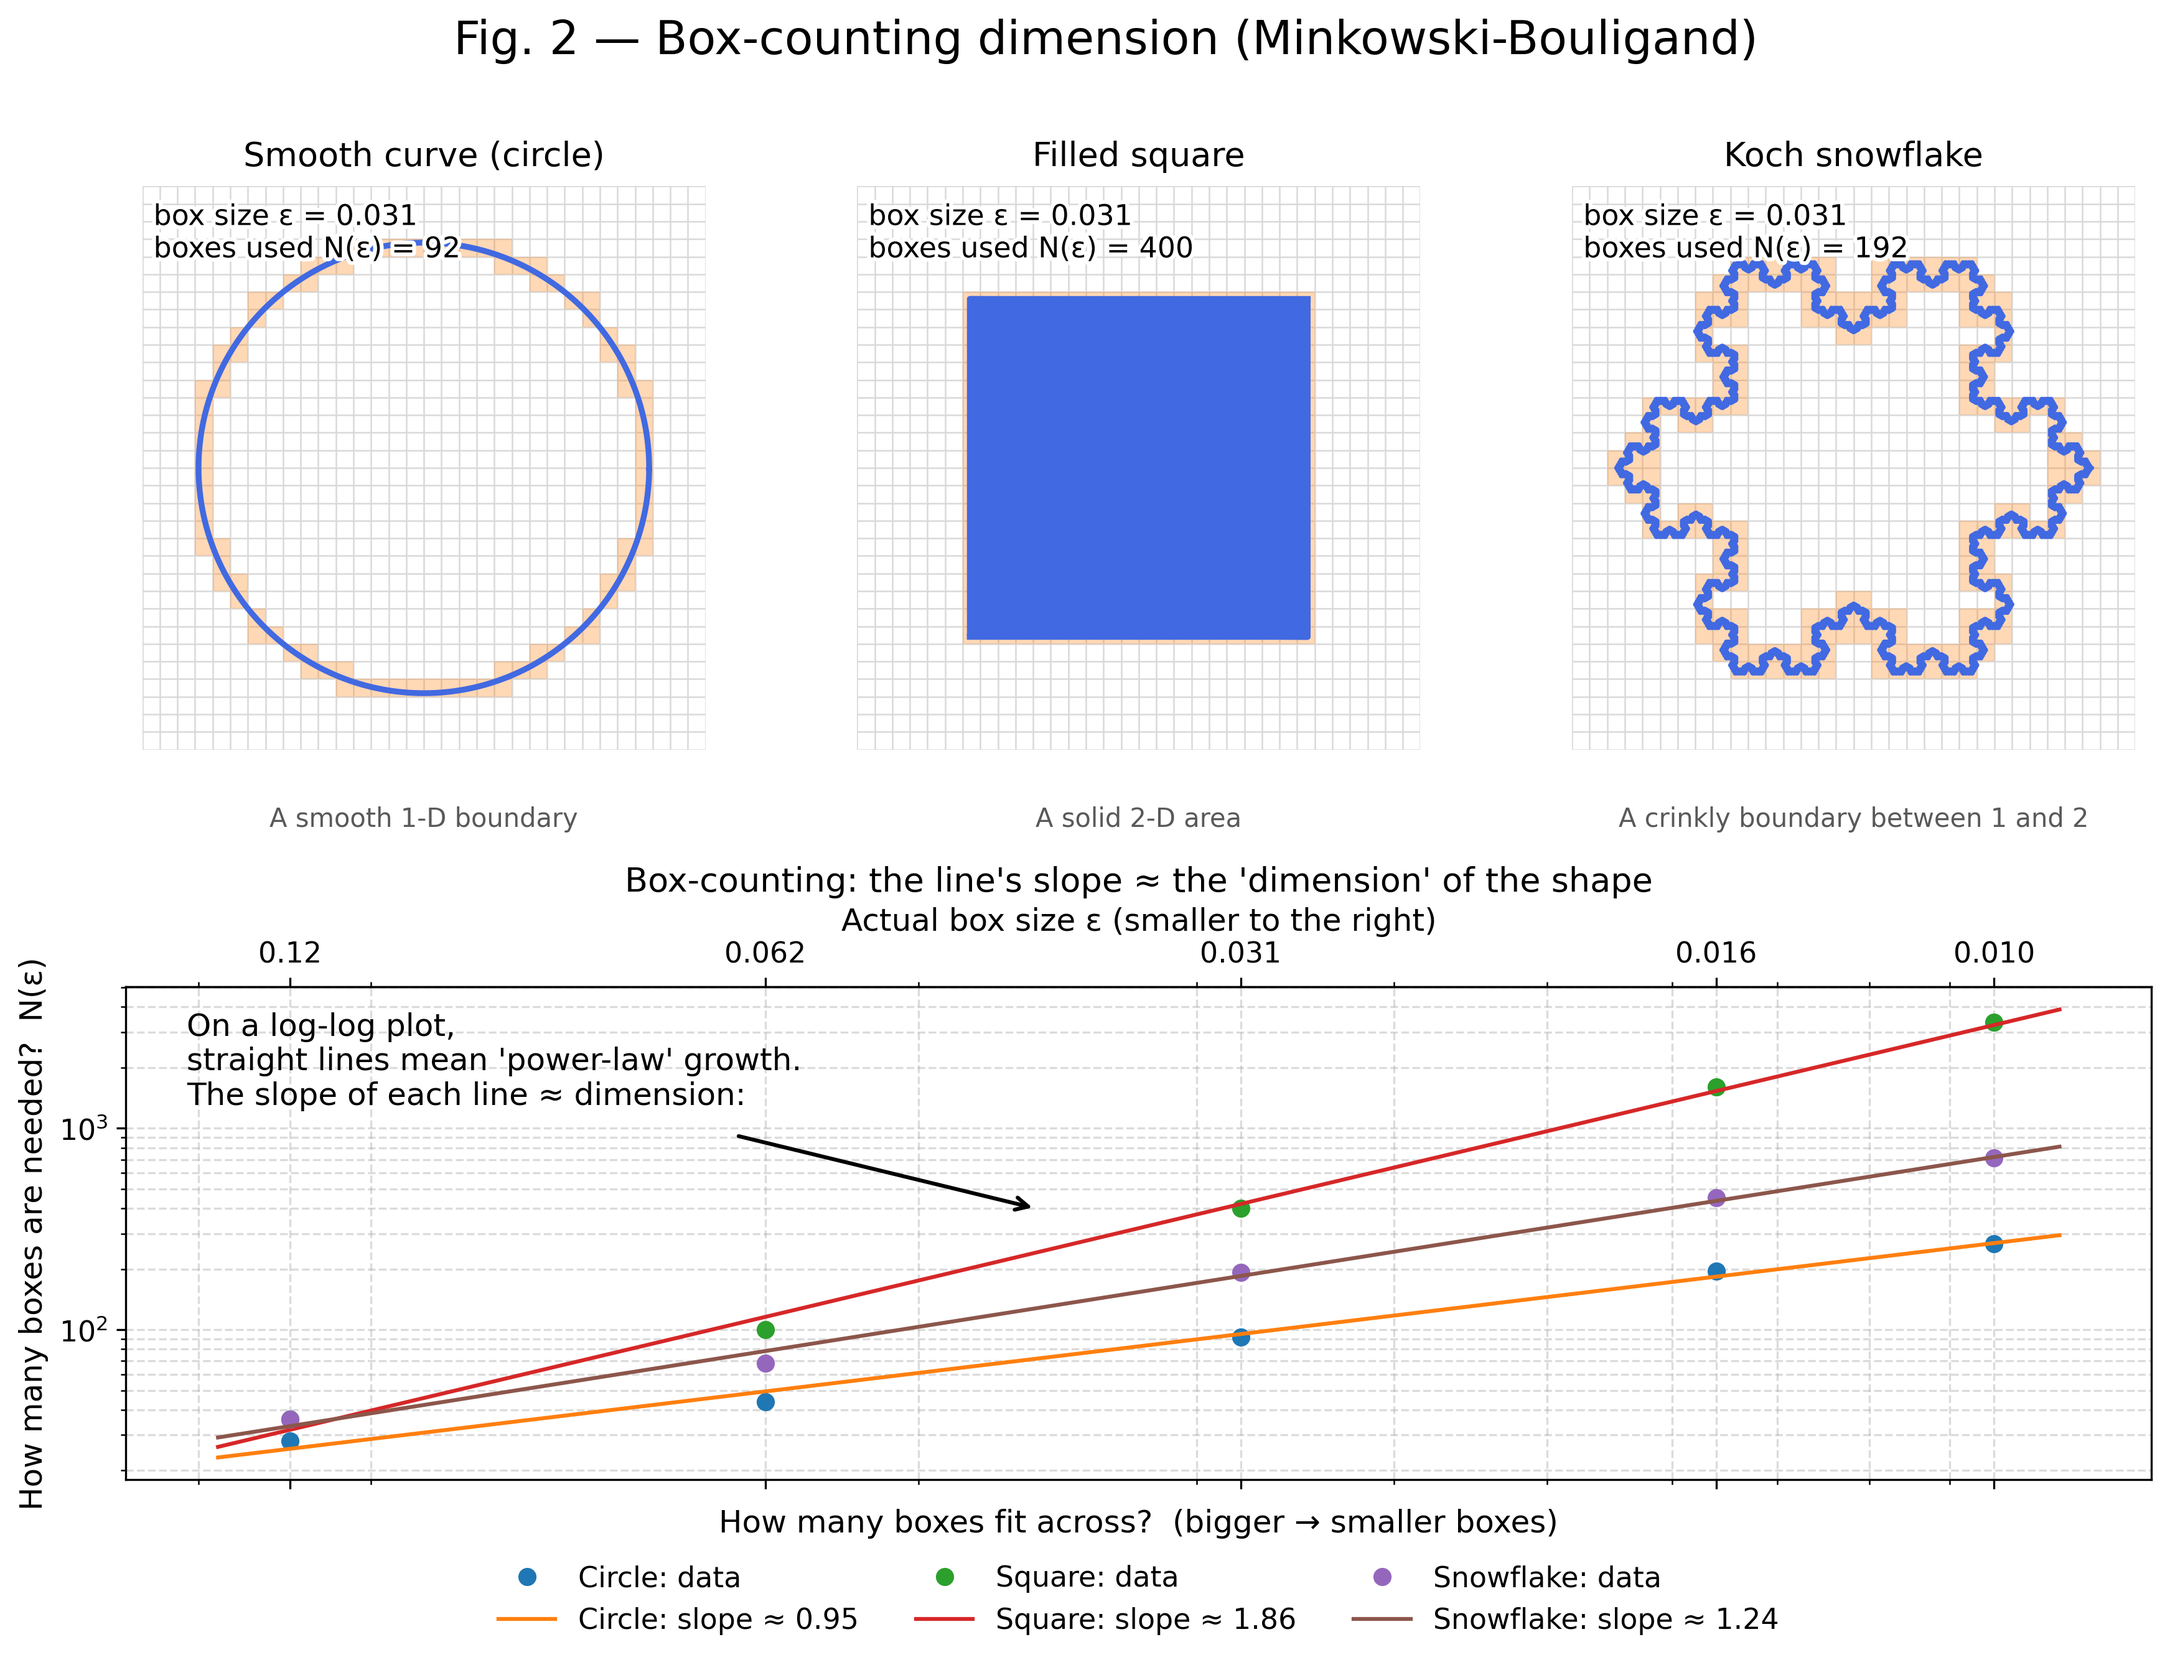
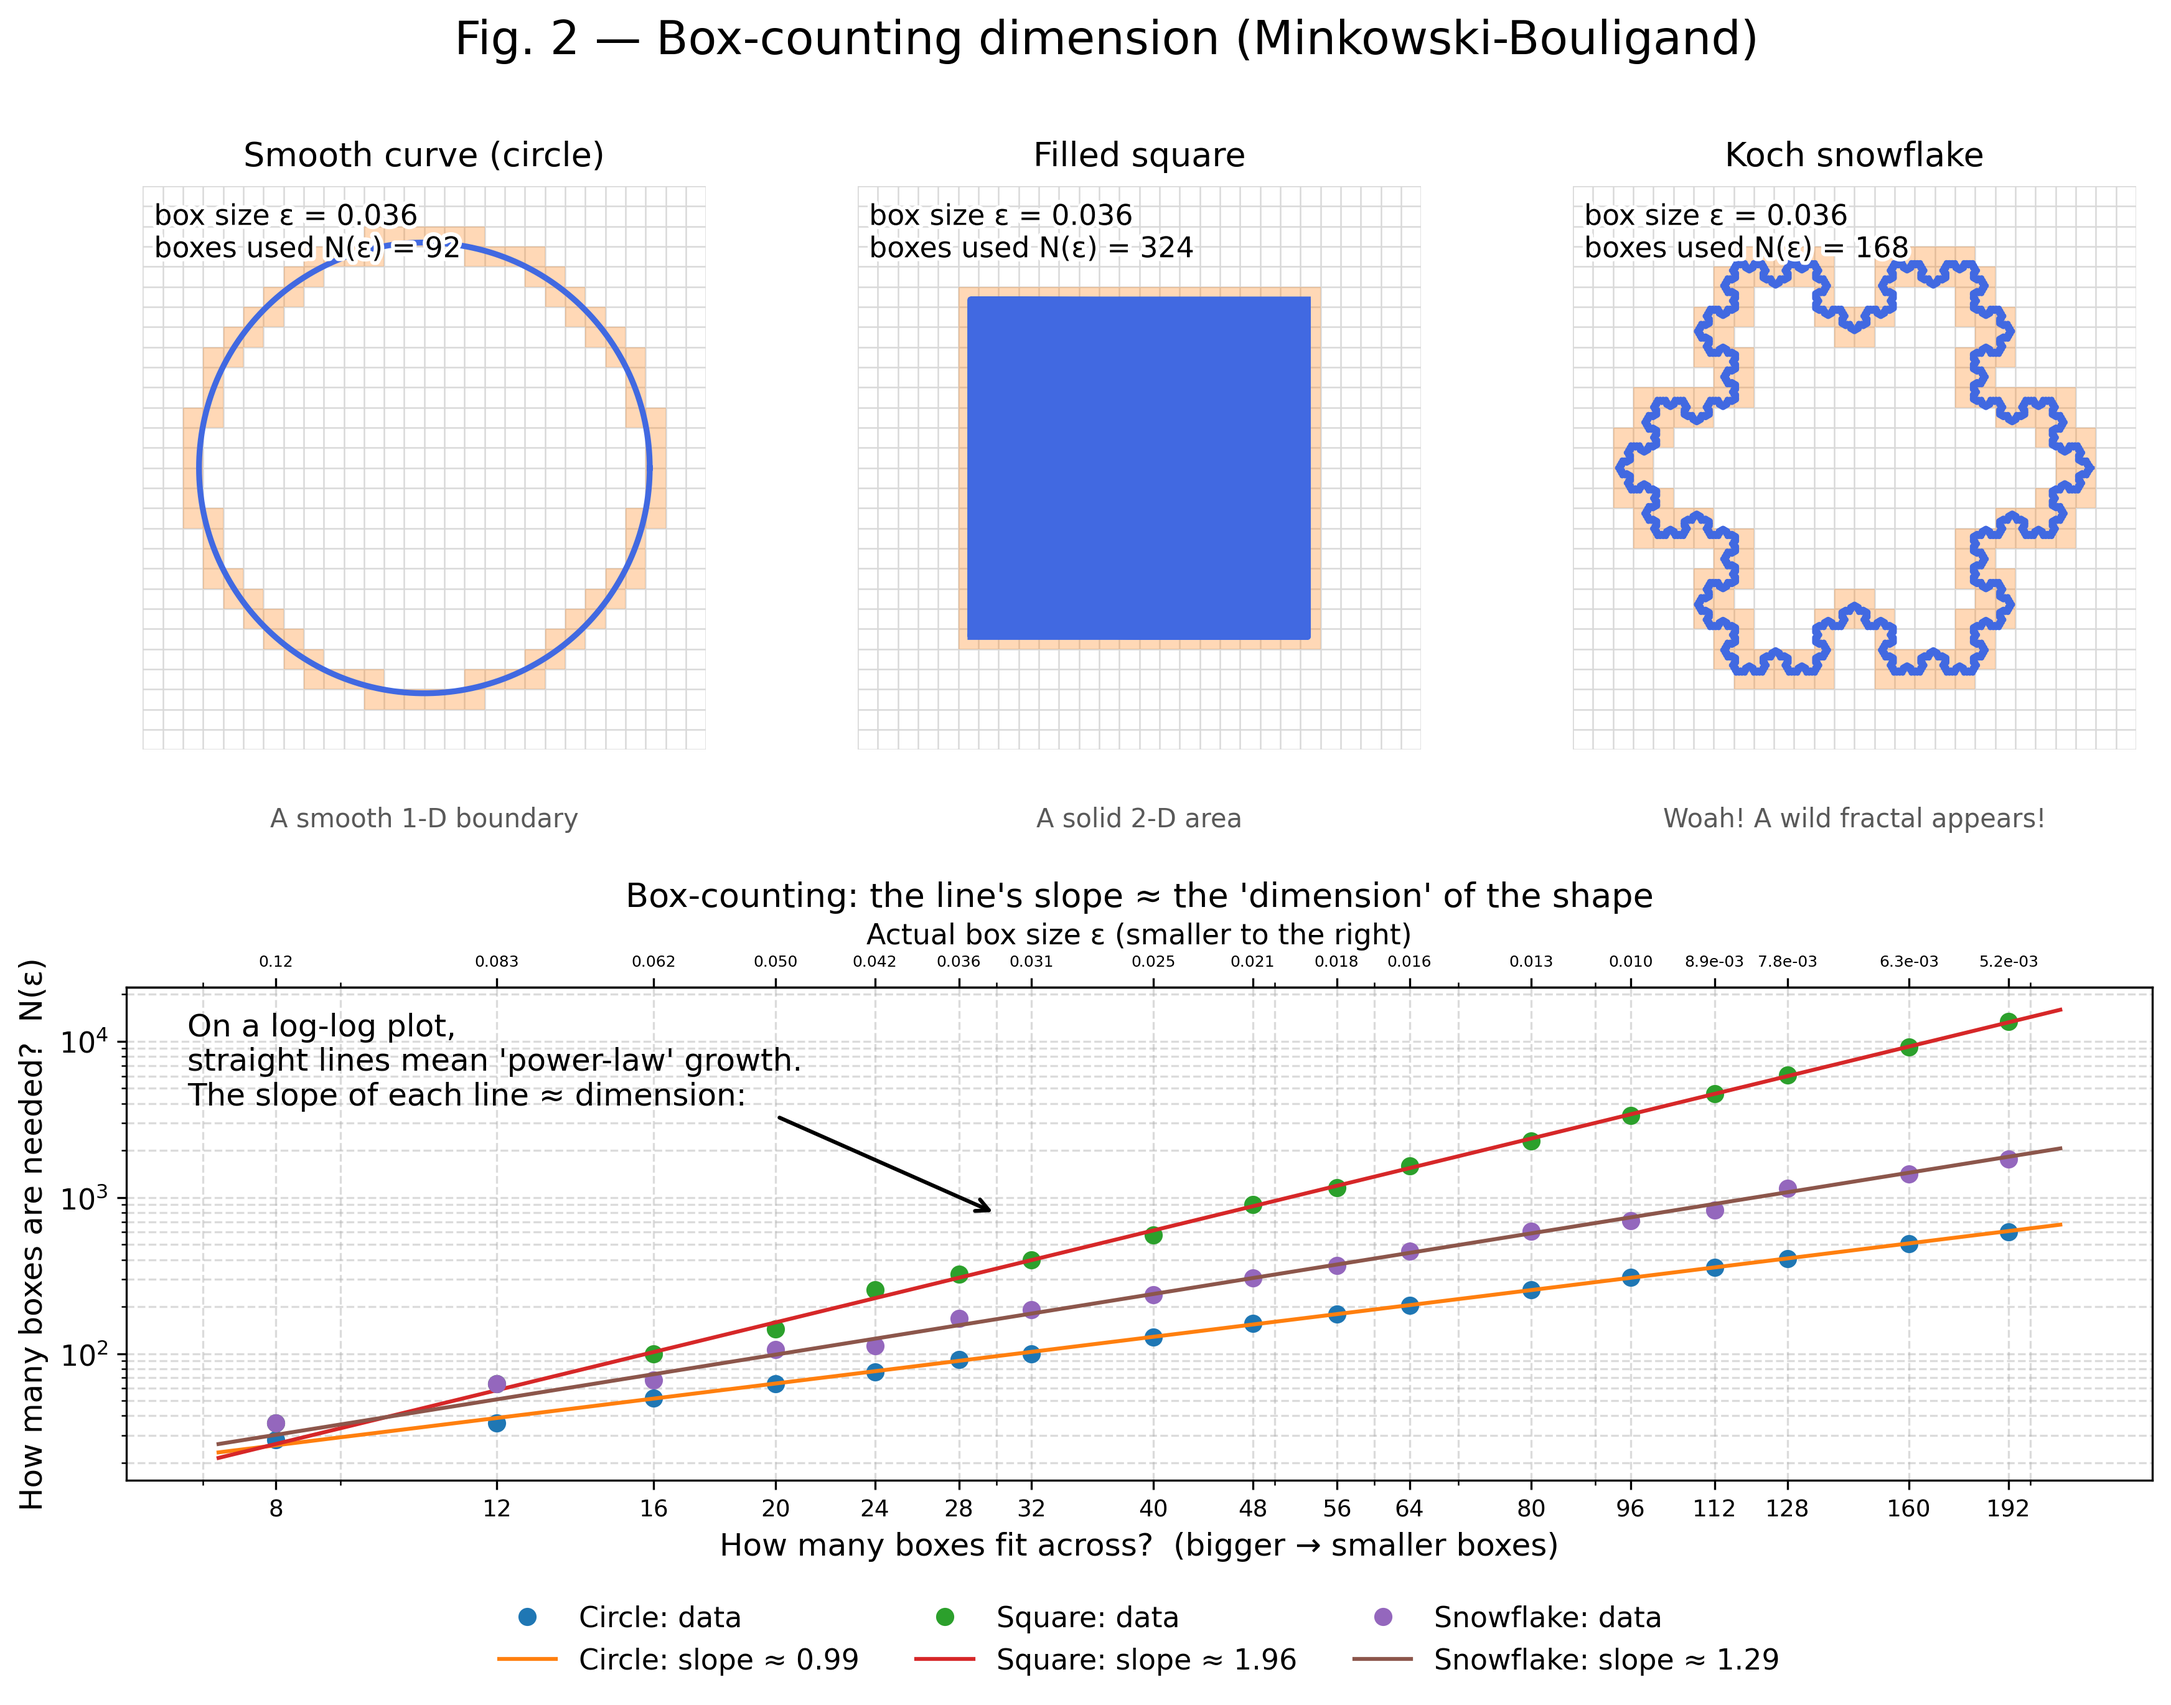
Refactor box-counting code

diff --git a/fig2.py b/fig2.py
@@ -4,10 +4,10 @@ import matplotlib.pyplot as plt
 import matplotlib.patheffects as pe
 from matplotlib.collections import PatchCollection
 from matplotlib.patches import Rectangle
+from matplotlib.ticker import ScalarFormatter
 
 
 def _koch(o, scale):
-    """Return points of a Koch boundary (complex array), order `o`, side length 1*scale."""
     if o == 0:
         ang = np.array([0, 2 * np.pi / 3, 4 * np.pi / 3, 0.0])
         return scale * np.exp(1j * ang)
@@ -88,17 +88,28 @@ def counts_for(points_xy, eps_vals):
     return np.array([box_count(points_xy, eps) for eps in eps_vals], dtype=int)
 
 
-def slope_and_intercept(eps, N):
+def slope_and_intercept(eps, N, fit_slice=None):
     x = np.log(1 / eps)
     y = np.log(N)
+    if fit_slice is not None:
+        x = x[fit_slice]
+        y = y[fit_slice]
     b, a = np.polyfit(x, y, 1)
     return b, a
 
 
-theta = np.linspace(0, 2 * np.pi, 600, endpoint=False)
+eps_vals = 1 / np.array(
+    [8, 12, 16, 20, 24, 28, 32, 40, 48, 56, 64, 80, 96, 112, 128, 160, 192], dtype=float
+)
+fit_slice = slice(2, -2)
+eps_min = float(eps_vals.min())
+
+n_circle = int(np.ceil(2000 * (0.0104 / eps_min)))
+theta = np.linspace(0, 2 * np.pi, max(n_circle, 5000), endpoint=False)
 circle_xy = np.column_stack([0.5 + 0.40 * np.cos(theta), 0.5 + 0.40 * np.sin(theta)])
 
-g = np.linspace(0.2, 0.8, 200)
+grid_step = eps_min / 3.0
+g = np.arange(0.2, 0.8 + 1e-12, grid_step)
 xx, yy = np.meshgrid(g, g, indexing="xy")
 square_xy = np.column_stack([xx.ravel(), yy.ravel()])
 
@@ -107,15 +118,13 @@ xs, ys = normalize_to_unit_square(xs, ys, pad=0.08)
 xs, ys = resample_polyline(xs, ys, step=0.002)
 snowflake_xy = np.column_stack([xs, ys])
 
-eps_vals = np.array([1 / 8, 1 / 16, 1 / 32, 1 / 64, 1 / 96], dtype=float)
-
 N_circle = counts_for(circle_xy, eps_vals)
 N_square = counts_for(square_xy, eps_vals)
 N_snow = counts_for(snowflake_xy, eps_vals)
 
-D_circle, _a = slope_and_intercept(eps_vals, N_circle)
-D_square, _b = slope_and_intercept(eps_vals, N_square)
-D_snow, _c = slope_and_intercept(eps_vals, N_snow)
+D_circle, _a = slope_and_intercept(eps_vals, N_circle, fit_slice)
+D_square, _b = slope_and_intercept(eps_vals, N_square, fit_slice)
+D_snow, _c = slope_and_intercept(eps_vals, N_snow, fit_slice)
 
 os.makedirs("figures", exist_ok=True)
 
@@ -137,7 +146,7 @@ titles = ["Smooth curve (circle)", "Filled square", "Koch snowflake"]
 subtitles = [
     "A smooth 1-D boundary",
     "A solid 2-D area",
-    "A crinkly boundary between 1 and 2",
+    "Woah! A wild fractal appears!"
 ]
 datasets = [
     (circle_xy, N_circle, D_circle),
@@ -145,7 +154,7 @@ datasets = [
     (snowflake_xy, N_snow, D_snow),
 ]
 
-eps_show = eps_vals[2]
+eps_show = eps_vals[5]
 outline_fx = [pe.withStroke(linewidth=3, foreground="white")]
 
 for j, (pts, Nvals, Dhat) in enumerate(datasets):
@@ -186,11 +195,13 @@ for j, (pts, Nvals, Dhat) in enumerate(datasets):
     ax.margins(0.08)
 
 ax = fig.add_subplot(gs[1, :])
-x = np.log(1 / eps_vals)
+x_all = np.log(1 / eps_vals)
 
 
 def plot_series(N, label):
-    y = np.log(N)
+    y_all = np.log(N)
+    x = x_all[fit_slice]
+    y = y_all[fit_slice]
     b, a = np.polyfit(x, y, 1)
     ax.plot(1 / eps_vals, N, "o", label=f"{label}: data")
     xx = np.linspace((1 / eps_vals).min() * 0.9, (1 / eps_vals).max() * 1.1, 200)
@@ -209,7 +220,8 @@ ax.set_ylabel("How many boxes are needed?  N(ε)")
 ax.set_title(
     "Box-counting: the line's slope ≈ the 'dimension' of the shape", fontsize=13
 )
-txt = ax.text(
+
+ax.text(
     0.03,
     0.95,
     "On a log-log plot,\nstraight lines mean 'power-law' growth.\nThe slope of each line ≈ dimension:",
@@ -219,12 +231,13 @@ txt = ax.text(
 )
 ax.annotate(
     "",
-    xy=(0.45, 0.55),     # end point: moved right (+x) and down (-y)
-    xytext=(0.30, 0.7), # start point: slightly right and down as well
+    xy=(0.43, 0.54),
+    xytext=(0.32, 0.74),
     xycoords="axes fraction",
     arrowprops=dict(arrowstyle="->", lw=1.5),
 )
-ax.legend(frameon=False, ncols=3, loc="upper center", bbox_to_anchor=(0.5, -0.12))
+
+ax.legend(frameon=False, ncols=3, loc="upper center", bbox_to_anchor=(0.5, -0.20))
 ax.grid(True, which="both", ls="--", alpha=0.45)
 
 
@@ -241,11 +254,19 @@ def _format_eps_from_invx(invx):
 
 
 ax.set_xticks(1 / eps_vals, minor=False)
+
+formatter = ScalarFormatter()
+formatter.set_scientific(True)
+formatter.set_powerlimits((-2, 3))
+ax.xaxis.set_major_formatter(formatter)
+ax.tick_params(axis="x", labelsize=9)
+
 ax_top = ax.secondary_xaxis("top", functions=(lambda u: u, lambda u: u))
 ax_top.set_xscale("log")
-ax_top.set_xlabel("Actual box size ε (smaller to the right)")
+ax_top.set_xlabel("Actual box size ε (smaller to the right)", fontsize=11)
 ax_top.set_xticks(1 / eps_vals, minor=False)
 ax_top.set_xticklabels([_format_eps_from_invx(v) for v in (1 / eps_vals)])
+ax_top.tick_params(axis="x", labelsize=6)
 
 fig.suptitle(
     "Fig. 2 — Box-counting dimension (Minkowski-Bouligand)", fontsize=18, y=0.98
